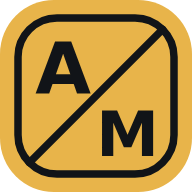
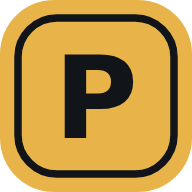
App mark: a single framed P
Claude-Session: https://claude.ai/code/session_01CxJEc1Hy1WUCaqvM2jGHtb

Changed region(s): [[0.1562, 0.1562, 0.8438, 0.8438]]

diff --git a/Photo-Map.html b/Photo-Map.html
@@ -4,7 +4,7 @@
 <meta charset="UTF-8" />
 <meta name="viewport" content="width=device-width, initial-scale=1.0" />
 <meta name="theme-color" content="#ffffff" />
-<link rel="manifest" href="manifest.webmanifest?v=9" />
+<link rel="manifest" href="manifest.webmanifest?v=10" />
 <link rel="icon" href="icon.svg" type="image/svg+xml" />
 <link rel="preconnect" href="https://fonts.googleapis.com" /><link rel="preconnect" href="https://fonts.gstatic.com" crossorigin />
 <link href="https://fonts.googleapis.com/css2?family=Roboto+Mono:wght@700&display=swap" rel="stylesheet" />
@@ -39,7 +39,7 @@
   header{height:var(--header-h);display:flex;align-items:center;gap:14px;padding:0 16px;
     background:var(--panel);border-bottom:1px solid var(--line);position:relative;z-index:1200;}
   .brand{display:flex;align-items:center;gap:9px;flex:0 0 auto;}
-  .brand .pm-mark{flex-shrink:0;display:block;}   /* the app mark: gold squircle, A / M split by a diagonal */
+  .brand .pm-mark{flex-shrink:0;display:block;}   /* the app mark: gold squircle with a framed P */
   .brand h1{font-family:var(--font);font-weight:700;font-size:17px;margin:0;color:var(--ink);}
   .brand h1 span{color:var(--accent);}
   .menubar{display:flex;align-items:center;gap:2px;margin-left:10px;height:100%;}
@@ -728,7 +728,7 @@
 <body>
 
 <header>
-  <div class="brand"><svg class="pm-mark" viewBox="0 0 64 64" width="30" height="30" aria-hidden="true"><rect width="64" height="64" rx="18" fill="#e8b44a"/><rect x="6" y="6" width="52" height="52" rx="13" fill="none" stroke="#111418" stroke-width="2.5"/><path d="M9.8 54.2 54.2 9.8" stroke="#111418" stroke-width="2.5" stroke-linecap="round"/><text x="21" y="31" text-anchor="middle" font-family="system-ui,Segoe UI,Arial,sans-serif" font-weight="800" font-size="24" fill="#111418">A</text><text x="42.5" y="52" text-anchor="middle" font-family="system-ui,Segoe UI,Arial,sans-serif" font-weight="800" font-size="21" fill="#111418">M</text></svg><div class="brand-t"><h1>Action<span>Map</span></h1><span class="savestat" id="saveStatus" title="When the project file was last saved"></span></div><span class="build" id="buildStamp" style="display:none" title="When this copy of the app was published — if it's older than the latest change, you're running a stale copy"></span></div>
+  <div class="brand"><svg class="pm-mark" viewBox="0 0 64 64" width="30" height="30" aria-hidden="true"><rect width="64" height="64" rx="18" fill="#e8b44a"/><rect x="6" y="6" width="52" height="52" rx="13" fill="none" stroke="#111418" stroke-width="2.5"/><text x="32" y="46" text-anchor="middle" font-family="system-ui,Segoe UI,Arial,sans-serif" font-weight="800" font-size="38" fill="#111418">P</text></svg><div class="brand-t"><h1>Action<span>Map</span></h1><span class="savestat" id="saveStatus" title="When the project file was last saved"></span></div><span class="build" id="buildStamp" style="display:none" title="When this copy of the app was published — if it's older than the latest change, you're running a stale copy"></span></div>
   <nav class="menubar" id="menubar">
     <div class="mb"><button class="mb-btn" type="button">File</button><div class="mb-drop">
       <button class="mi" id="btnOpenJson" type="button" title="Open a saved project file (.json). The current project is closed first — you'll be asked.">Open project…</button>
@@ -4412,7 +4412,7 @@ function parseShareHash(){
 /* ================= MOBILE FIELD UI =================
    Phone-sized touch screens get an actions-first UI at the SAME link. It reads the latest
    pack.json from the private data repo (token pasted once) and pushes ticks/notes back. */
-const PM_MARK=w=>'<svg class="pm-mark" viewBox="0 0 64 64" width="'+w+'" height="'+w+'" aria-hidden="true"><rect width="64" height="64" rx="18" fill="#e8b44a"/><rect x="6" y="6" width="52" height="52" rx="13" fill="none" stroke="#111418" stroke-width="2.5"/><path d="M9.8 54.2 54.2 9.8" stroke="#111418" stroke-width="2.5" stroke-linecap="round"/><text x="21" y="31" text-anchor="middle" font-family="system-ui,Segoe UI,Arial,sans-serif" font-weight="800" font-size="24" fill="#111418">A</text><text x="42.5" y="52" text-anchor="middle" font-family="system-ui,Segoe UI,Arial,sans-serif" font-weight="800" font-size="21" fill="#111418">M</text></svg>';
+const PM_MARK=w=>'<svg class="pm-mark" viewBox="0 0 64 64" width="'+w+'" height="'+w+'" aria-hidden="true"><rect width="64" height="64" rx="18" fill="#e8b44a"/><rect x="6" y="6" width="52" height="52" rx="13" fill="none" stroke="#111418" stroke-width="2.5"/><text x="32" y="46" text-anchor="middle" font-family="system-ui,Segoe UI,Arial,sans-serif" font-weight="800" font-size="38" fill="#111418">P</text></svg>';
 function isMobile(){ try{ return matchMedia("(pointer:coarse)").matches && Math.min(screen.width,screen.height)<600 && !localStorage.getItem("pmForceDesktop"); }catch(e){ return false; } }
 let mPack=null, mGeo=null, mMiniMap=null, mInsetMap=null, mInsetMapL=null, mInsetCur=null, mHomeMap=null, mHomeBB=null;
 let _mpRaw=null,_mpObj=null;
